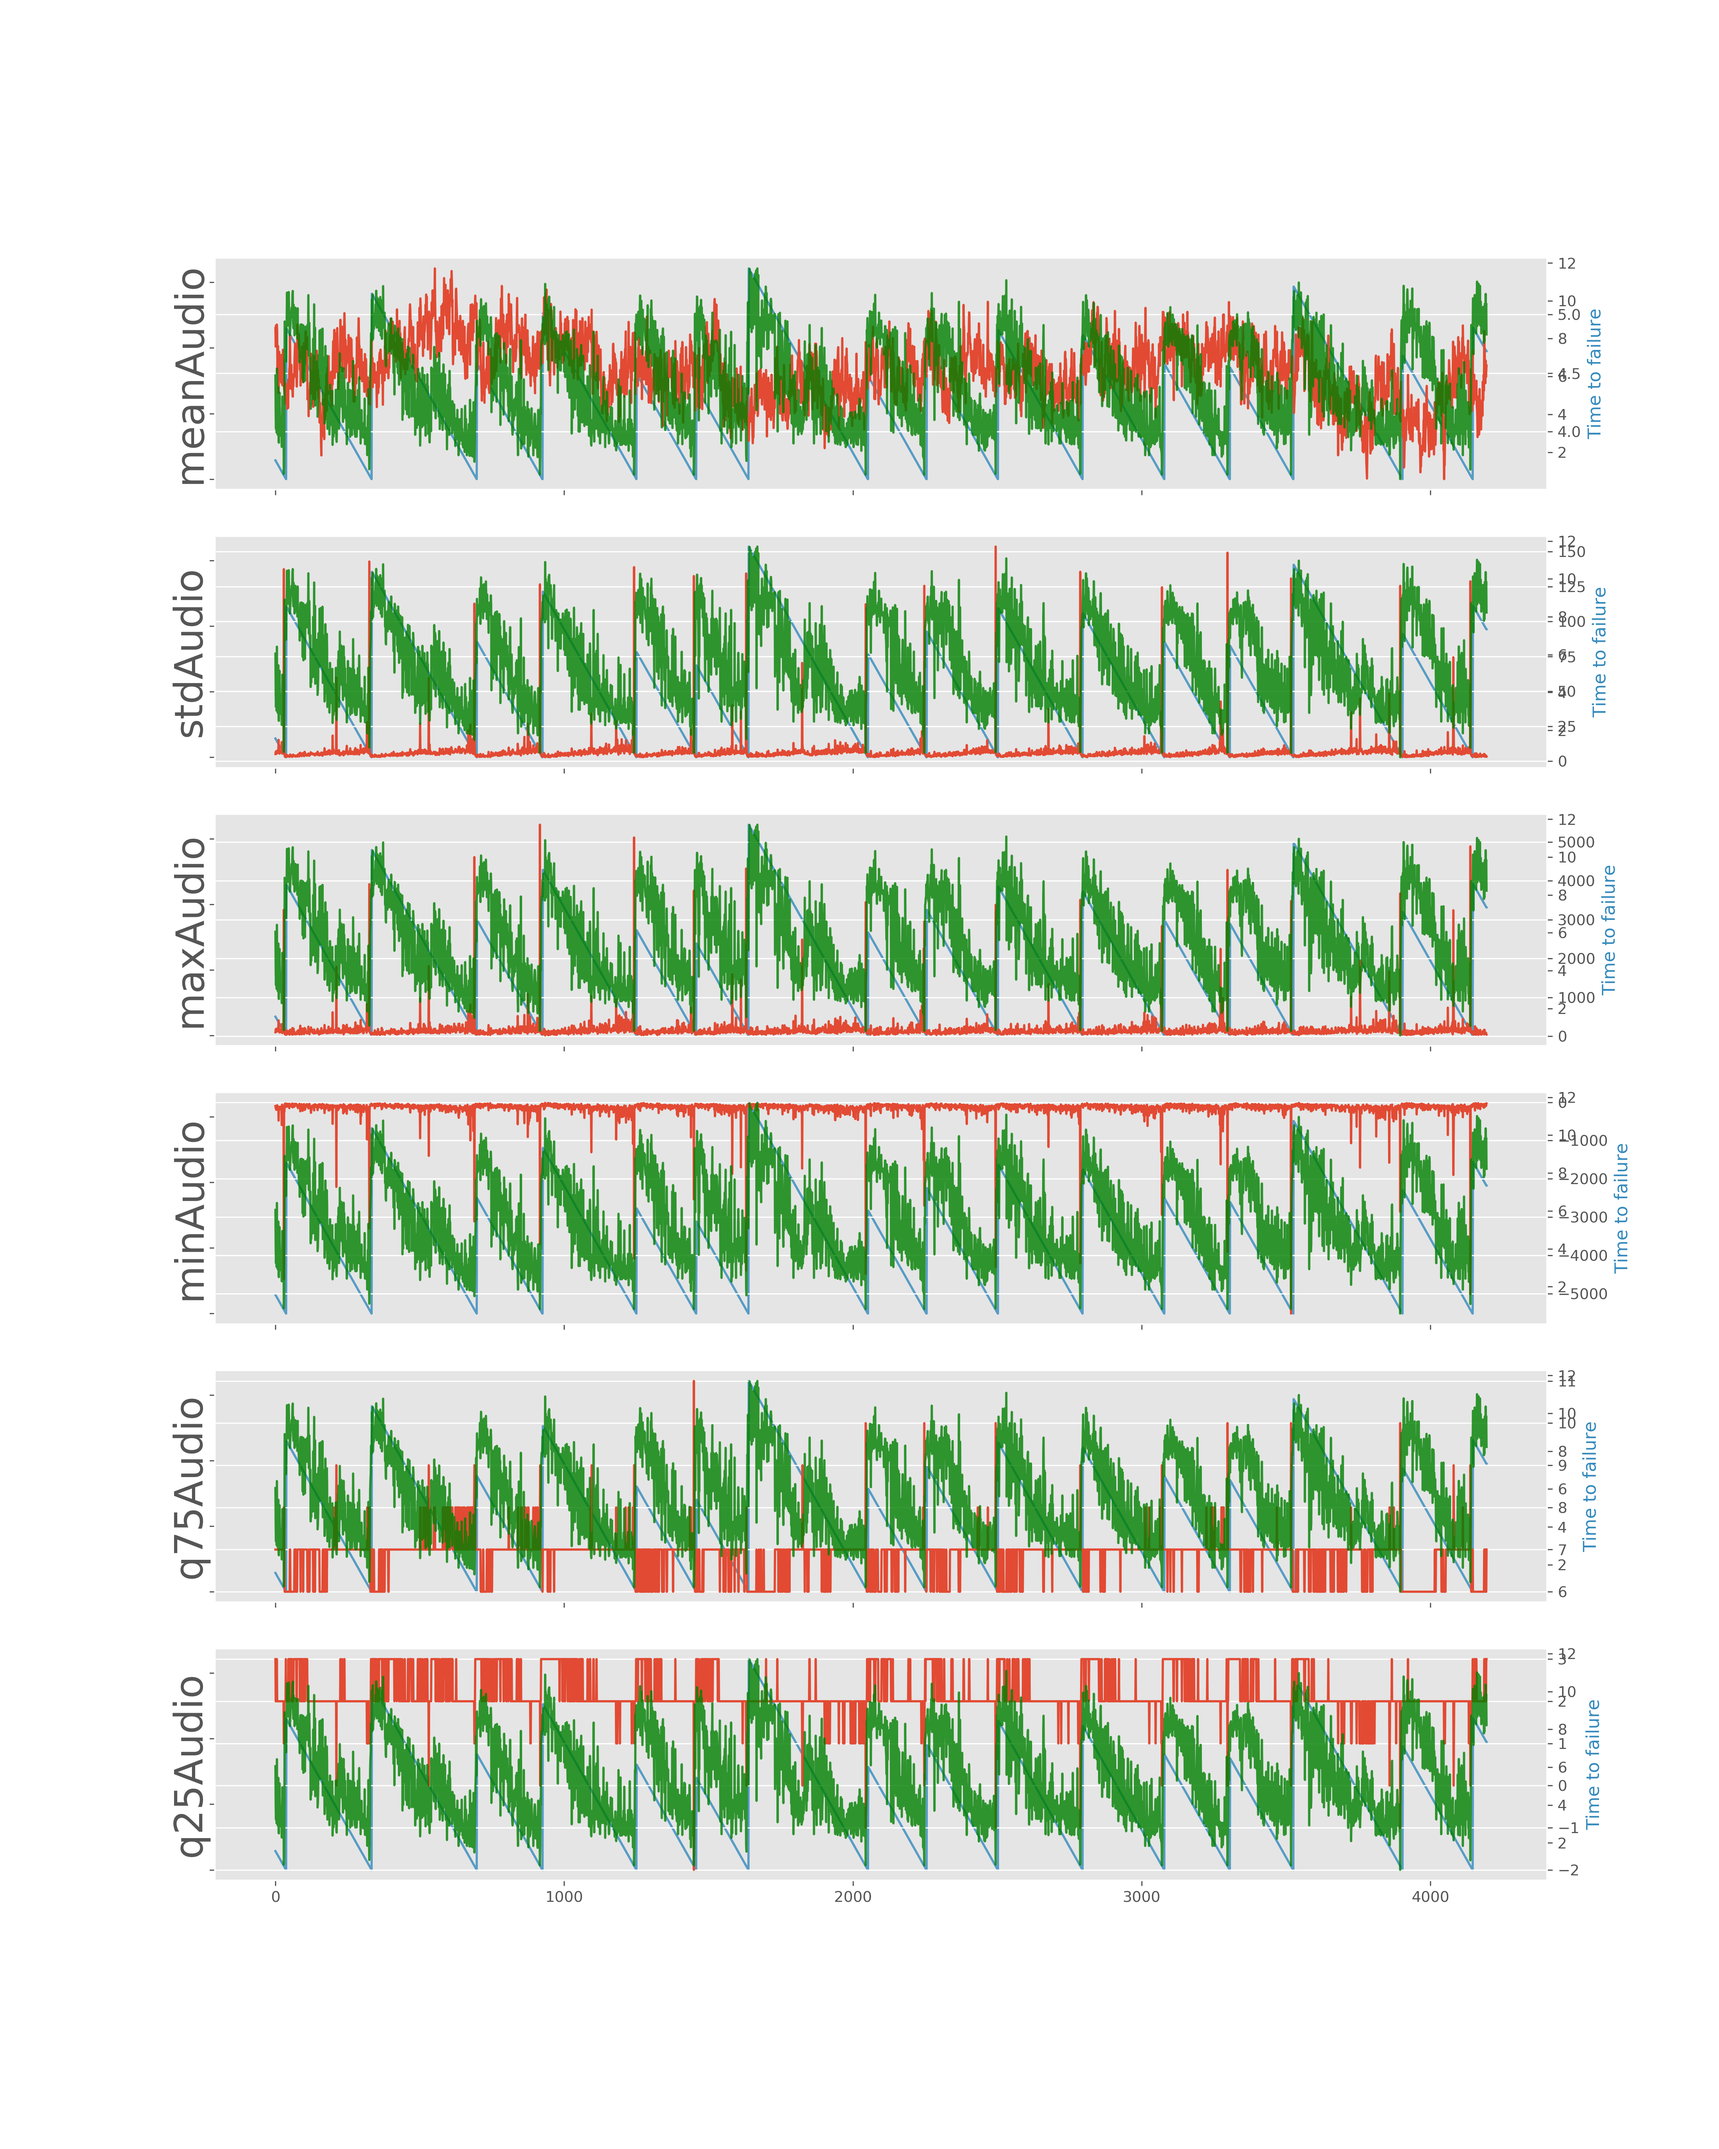
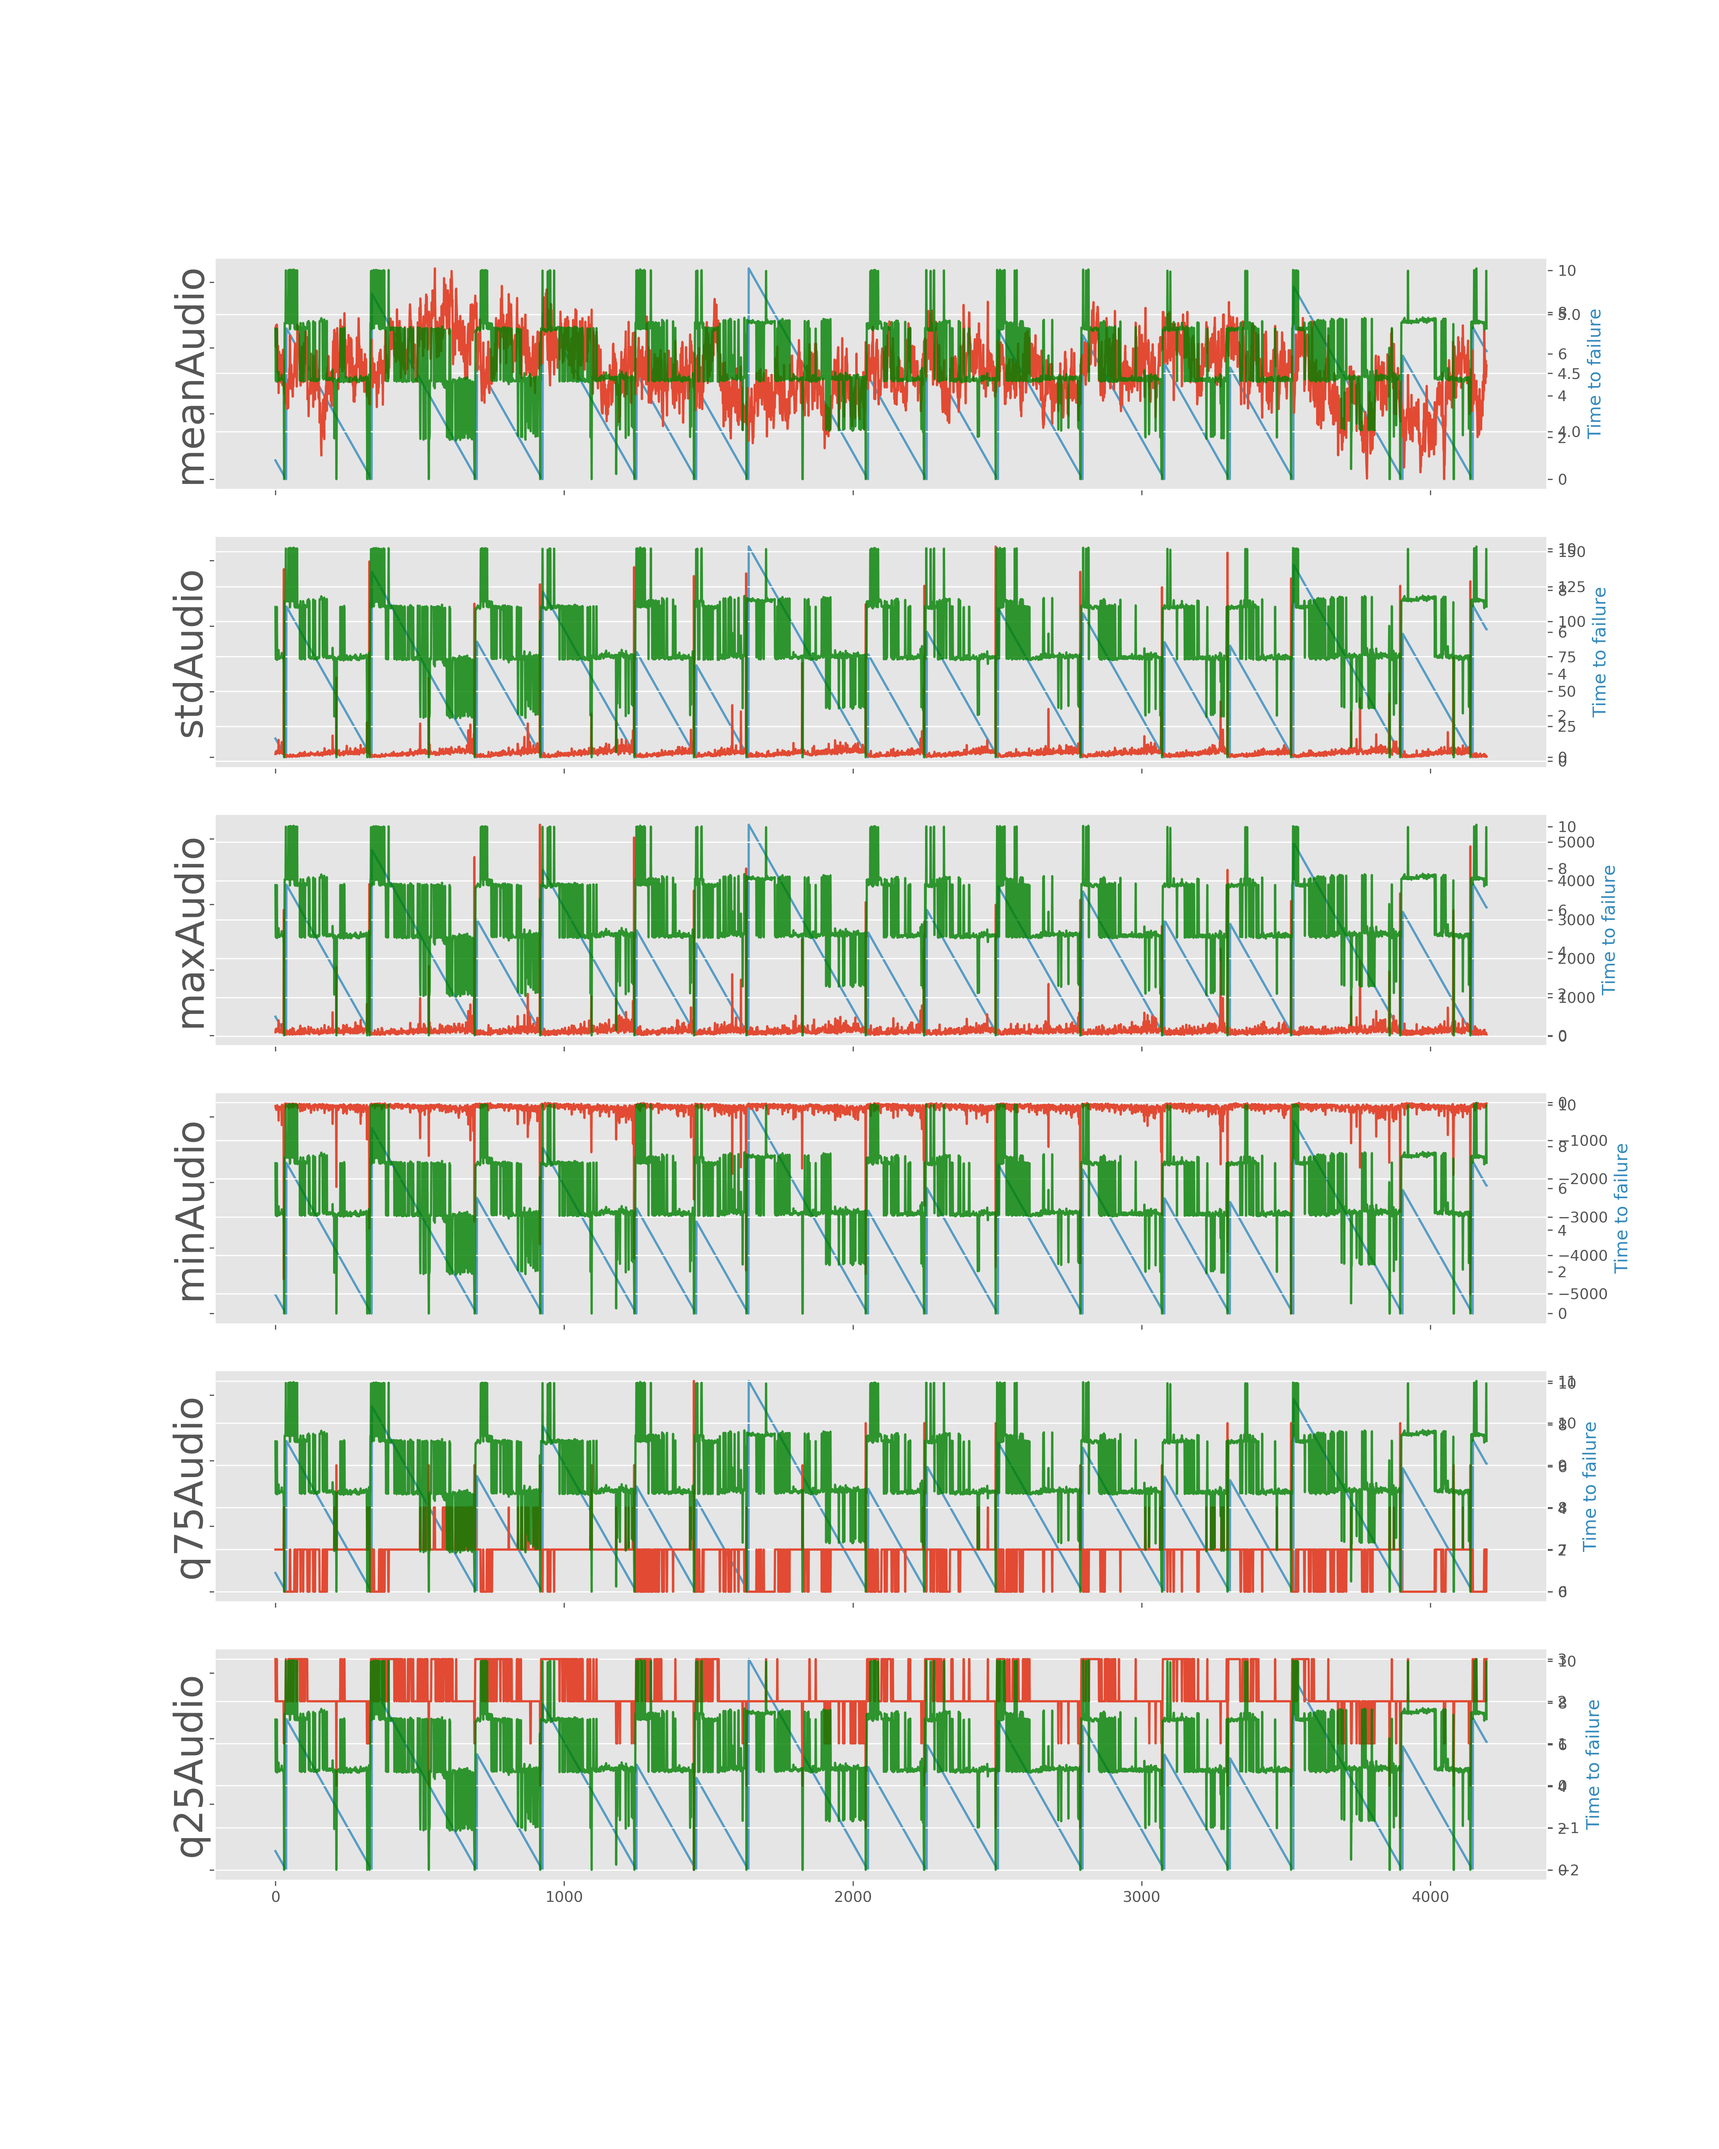
xgb linreg rfr

diff --git a/EDA.py b/EDA.py
@@ -13,29 +13,33 @@ import time
 
 reader = pd.read_csv("Data/train.csv",
                     dtype={'acoustic_data': np.int16, 'time_to_failure': np.float32},
-                    chunksize=1000000)
+                    chunksize=150000)
 
-summary= 'meanAudio stdAudio maxAudio maxTime minAudio minTime q75Audio q25Audio event n'.split()
-summarized_data = np.zeros((630,len(summary)))
+summary= 'meanAudio medianAudio modeAudio stdAudio maxAudio maxTime minAudio minTime q75Audio q25Audio event n'.split()
+summarized_data = np.zeros((4195,len(summary)))
 i = 0
 start_time = time.time()
 for df in reader:
     mean = df.mean()
+    median = df.median()
+    mode = df['acoustic_data'].mode()
     std = df.std()
     maxi = df.max()
     mini = df.min()
     q75 = df.quantile(.75)
     q25 = df.quantile(.25)
     summarized_data[i,0] = mean[0]
-    summarized_data[i,1] = std[0]
-    summarized_data[i,2] = maxi[0]
-    summarized_data[i,3] = maxi[1]
-    summarized_data[i,4] = mini[0]
-    summarized_data[i,5] = mini[1]
-    summarized_data[i,6] = q75[0]
-    summarized_data[i,7] = q25[0]
+    summarized_data[i,1] = median[0]
+    summarized_data[i,2] = mode[0]
+    summarized_data[i,3] = std[0]
+    summarized_data[i,4] = maxi[0]
+    summarized_data[i,5] = maxi[1]
+    summarized_data[i,6] = mini[0]
+    summarized_data[i,7] = mini[1]
+    summarized_data[i,8] = q75[0]
+    summarized_data[i,9] = q25[0]
 
-    summarized_data[i,9] = len(df)
+    summarized_data[i,10] = len(df)
     i=i+1
     if(i%500==0):
         print(i)
@@ -43,7 +47,7 @@ summarized_data = pd.DataFrame(summarized_data,columns=summary)
 min0 = summarized_data['minTime'].min()
 summarized_data['event'] = (summarized_data['minTime'].diff()>2).astype(int)
 events = summarized_data.index[summarized_data['event'] == 1]
-summarized_data.to_csv('summarized_data_1000000.csv',index=False)
+summarized_data.to_csv('summarized_data_150000.csv',index=False)
 print('This took {:.2f} seconds to process'.format(time.time() - start_time))
 #train_acoustic_data_small = train['acoustic_data'].values[::50]
 #train_time_to_failure_small = train['time_to_failure'].values[::50]
@@ -67,7 +71,7 @@ print('This took {:.2f} seconds to process'.format(time.time() - start_time))
 #%%
 reader = pd.read_csv("Data/train.csv",
                     dtype={'acoustic_data': np.int16, 'time_to_failure': np.float32},
-                    chunksize=1000000)
+                    chunksize=150000)
 events_df = []
 i = 0
 for df in reader:

diff --git a/xgb.py b/xgb.py
@@ -15,6 +15,9 @@ Created on Fri Apr 12 12:20:11 2019
 X = chunks[summary]
 y = chunks['minTime']
 
+
+X,Xtest,y,ytest = model_selection.train_test_split(X,y,test_size=0.25)
+
 #%%
 import xgboost as xgb
 
@@ -23,11 +26,17 @@ xgb_model = xgb.XGBRegressor(objective="reg:linear")
 xgb_model = xgb_model.fit(X, y)
 
 
-y_est = xgb_model.predict(X)
+y_est = xgb_model.predict(Xtest)
 y_est[y_est<0] = 0
 import sklearn.metrics as metric
-print('r2 Score linear regression: {:.4f}'.format(metric.mean_squared_error(y,y_est)))
+print('r2 Score linear regression: {:.4f}'.format(metric.mean_squared_error(ytest,y_est)))
 #%%
+
+
+X = chunks[summary]
+y = chunks['minTime']
+y_est = xgb_model.predict(X)
+y_est[y_est<0] = 0
 
 plt.style.use('ggplot')
 fig, ax = plt.subplots(len(summary),1,figsize=(16,20))

diff --git a/linreg.py b/linreg.py
@@ -24,6 +24,11 @@ import sklearn.metrics as metric
 print('r2 Score linear regression: {:.4f}'.format(metric.mean_squared_error(ytest,y_est)))
 #%%
 
+X = chunks[summary]
+y = chunks['minTime']
+y_est = reg.predict(X)
+y_est[y_est<0] = 0
+
 plt.style.use('ggplot')
 fig, ax = plt.subplots(len(summary),1,figsize=(16,20))
 i=0
